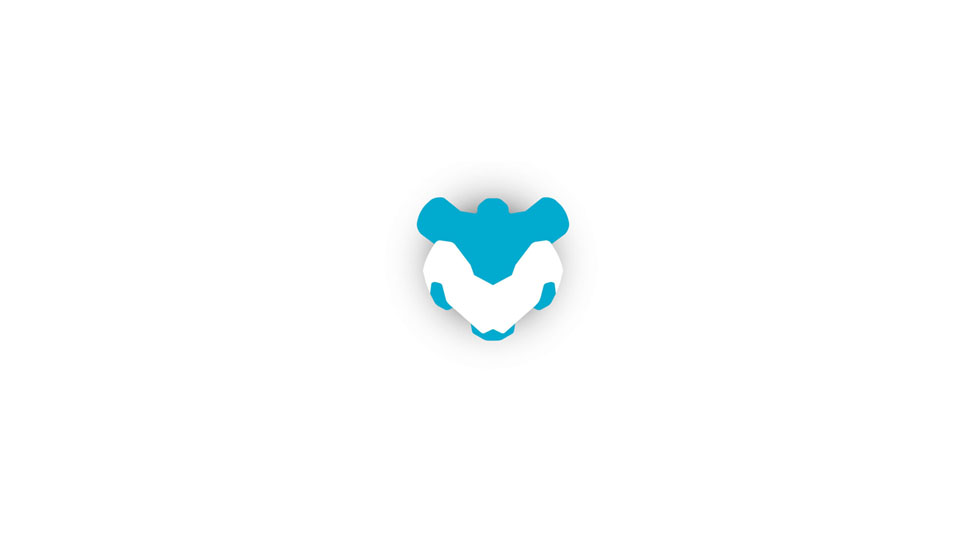
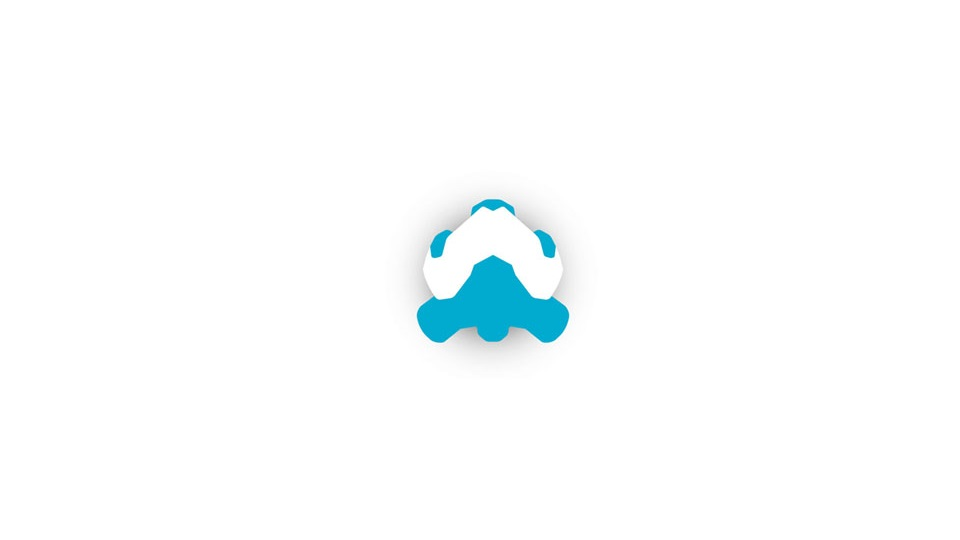
stbi_flip bug fixed

Changed region(s): [[0.4375, 0.3556, 0.5938, 0.6519]]

diff --git a/LigidPainter/Main/src/UTIL/Texture/UTILS/GetData.cpp b/LigidPainter/Main/src/UTIL/Texture/UTILS/GetData.cpp
@@ -25,12 +25,32 @@ Official Web Page : https://ligidtools.com/ligidpainter
 #include "UTIL/Texture/Texture.hpp"
 #include "UTIL/GL/GL.hpp"
 
-unsigned char* Texture::getTextureDataViaPath(const char* aPath,int &aWidth,int &aHeight,int &aChannels,int desiredChannels,bool flip){
-    stbi_set_flip_vertically_on_load(flip);
+static void flipImageVertically(unsigned char* pixels, int width, int height, int channels) {
+    int rowSize = width * channels; // Number of bytes per row
+    unsigned char* tempRow = new unsigned char[rowSize]; // Temporary storage for swapping
+
+    for (int i = 0; i < height / 2; ++i) {
+        unsigned char* rowTop = pixels + i * rowSize; // Pointer to the top row
+        unsigned char* rowBottom = pixels + (height - 1 - i) * rowSize; // Pointer to the bottom row
+
+        // Swap the top row with the bottom row
+        std::copy(rowTop, rowTop + rowSize, tempRow);
+        std::copy(rowBottom, rowBottom + rowSize, rowTop);
+        std::copy(tempRow, tempRow + rowSize, rowBottom);
+    }
+
+    delete[] tempRow; // Free temporary storage
+}
+
+unsigned char* Texture::getTextureDataViaPath(const char* aPath, int &aWidth, int &aHeight, int &aChannels, int desiredChannels, bool flip){
     unsigned char* data = stbi_load(aPath, &aWidth, &aHeight, &aChannels, desiredChannels);
     
     if(data != NULL){
         LGDLOG::start<< "Loaded " << aPath << LGDLOG::end;
+        
+        if(flip)
+            flipImageVertically(data, aWidth, aHeight, aChannels);
+        
         return data;
     }
     
@@ -48,6 +68,7 @@ unsigned char* Texture::getTextureDataViaPath(const char* aPath,int &aWidth,int 
         unsigned char* aData = (unsigned char*) malloc(4 * sizeof(unsigned char));
         return aData;
     }
+
 }
 
 void Texture::getData(char* pixels){

diff --git a/LigidPainter/Main/src/UTIL/Texture/UTILS/Duplication.cpp b/LigidPainter/Main/src/UTIL/Texture/UTILS/Duplication.cpp
@@ -30,6 +30,7 @@ Official Web Page : https://ligidtools.com/ligidpainter
 static Texture txtr_for_getContext;
 static Texture txtr_for_getSecondContext;
 static Texture txtr_for_getCopyContext;
+static Texture txtr_for_getLoadingContext;
 
 Texture Texture::get_temp_copy_txtr(std::string location){
     if(getContext()->window.isContextCurrent()){
@@ -68,8 +69,20 @@ Texture Texture::get_temp_copy_txtr(std::string location){
 
         return txtr_for_getCopyContext;
     }
+    if(getLoadingContext()->window.isContextCurrent()){
+        if(!txtr_for_getLoadingContext.ID){
+            txtr_for_getLoadingContext = Texture((char*)nullptr, 1, 1);
+        }
+        if(this->getResolution() != txtr_for_getLoadingContext.getResolution()){
+            txtr_for_getLoadingContext.update((char*)nullptr, this->getResolution().x, this->getResolution().y);
+        }
+        
+        this->duplicateTextureSub(txtr_for_getLoadingContext, location + " : get_temp_copy_txtr");
 
-    return txtr_for_getCopyContext;
+        return txtr_for_getLoadingContext;
+    }
+
+    return txtr_for_getLoadingContext;
 }
 
 void Texture::duplicateTextureSub(Texture& txtr, std::string location){

diff --git a/LigidPainter/Main/src/UTIL/Framebuffers/Framebuffer_Renderbuffer.cpp b/LigidPainter/Main/src/UTIL/Framebuffers/Framebuffer_Renderbuffer.cpp
@@ -299,7 +299,7 @@ void Framebuffer::setColorBuffer(Texture colorBuffer, unsigned int textureTarget
 
         // Detach all color attachments
         for (GLint i = 0; i < maxColorAttachments; ++i) {
-            glFramebufferTexture2D(GL_FRAMEBUFFER, GL_COLOR_ATTACHMENT0 + i, GL_TEXTURE_2D, 0, 0);
+            glFramebufferTexture2D(GL_FRAMEBUFFER, GL_COLOR_ATTACHMENT0 + i, textureTarget, 0, 0);
             LigidGL::testGLError("Framebuffer::setColorBuffer : glFramebufferTexture2D(GL_FRAMEBUFFER, GL_COLOR_ATTACHMENT0 + i, GL_TEXTURE_2D, 0, 0)" + std::string(" : ") + this->purpose);
         }
     }
@@ -311,7 +311,9 @@ void Framebuffer::setColorBuffer(Texture colorBuffer, unsigned int textureTarget
     glDrawBuffers(1, attachments);
     LigidGL::testGLError("Framebuffer::setColorBuffer : glDrawBuffers" + std::string(" : ") + this->purpose);
     
-    TEST_FRAMEBUFFER("Framebuffer::bind single color attachments");
+    if(colorBuffer.ID){
+        TEST_FRAMEBUFFER("Framebuffer::bind single color attachments");
+    }
 }
 
 void Framebuffer::setColorBuffer(std::vector<Texture> colorBuffers, unsigned int textureTarget){

diff --git a/LigidPainter/Main/src/UTIL/Texture/Texture.hpp b/LigidPainter/Main/src/UTIL/Texture/Texture.hpp
@@ -162,7 +162,7 @@ public:
     bool load(const char* path);
 
     /// @brief Returns texture data in the given path & doesn't write anything to the member variables
-    unsigned char* getTextureDataViaPath(const char* aPath,int &aWidth,int &aHeight,int &aChannels,int desiredChannels,bool flip);
+    unsigned char* getTextureDataViaPath(const char* aPath, int &aWidth, int &aHeight, int &aChannels, int desiredChannels, bool flip);
     
     /// @brief Exports the texture to the given directory path
     /// @param path folder path (will be completed as : @param path + / + @ref title + . + format (in lowercase))

diff --git a/LigidPainter/Main/src/UTIL/Texture/LoadTexture.cpp b/LigidPainter/Main/src/UTIL/Texture/LoadTexture.cpp
@@ -43,8 +43,6 @@ bool Texture::load(const char* path){
     this->title = UTIL::getLastWordBySeparatingWithChar(path,UTIL::folderDistinguisher());
     this->title = UTIL::removeExtension(this->title);
 
-    stbi_set_flip_vertically_on_load(true);
-    
     int width, height, channels;
     unsigned char* data = stbi_load(path, &width, &height, &channels, 4);
 	if (data != NULL)
@@ -70,6 +68,10 @@ bool Texture::load(const char* path){
 	}
 
     stbi_image_free(data);
+
+    if(ShaderSystem::textureRenderingShader().ID){
+        this->flipTexture(false, true);
+    }
 
     return true;
 }

diff --git a/LigidPainter/Main/src/UTIL/Settings/Settings.cpp b/LigidPainter/Main/src/UTIL/Settings/Settings.cpp
@@ -45,6 +45,7 @@ Model __materialDisplayingModel;
 Model __getTDBrushCursorModel;
 Box __box;
 Box __box_2;
+Box __box_3;
 Settings::DefaultFramebuffer __defaultFramebuffer;
 
 glm::vec2 __videoScale;
@@ -267,6 +268,8 @@ Box* getBox(){
         return &__box;
     if(getSecondContext()->window.isContextCurrent())
         return &__box_2;
+    if(getLoadingContext()->window.isContextCurrent())
+        return &__box_3;
 
     return &__box;
 }

diff --git a/LigidPainter/Main/src/LigidPainter.h b/LigidPainter/Main/src/LigidPainter.h
@@ -176,6 +176,8 @@ public:
         Debugger::block("LOAD : Box"); //Start 305233920 291.12 MB
         getSecondContext()->window.makeContextCurrent();
         getBox()->init();
+        getLoadingContext()->window.makeContextCurrent();
+        getBox()->init();
         getContext()->window.makeContextCurrent();
         getBox()->init();
         Debugger::block("LOAD : Box"); //Start 305233920 291.12 MB

diff --git a/LigidPainter/Main/src/3D/Skybox/LoadSkybox.cpp b/LigidPainter/Main/src/3D/Skybox/LoadSkybox.cpp
@@ -58,7 +58,7 @@ void Skybox::load(std::string path) //Path to the folder
 	for (unsigned int i = 0; i < faces.size(); i++)
 	{
 		Texture txtr;
-		unsigned char *data = txtr.getTextureDataViaPath(faces[i].c_str(),width,height,nrChannels,3,true);
+		unsigned char *data = txtr.getTextureDataViaPath(faces[i].c_str(), width, height, nrChannels, 3, true);
 
 		if (data) //Loaded
 		{
